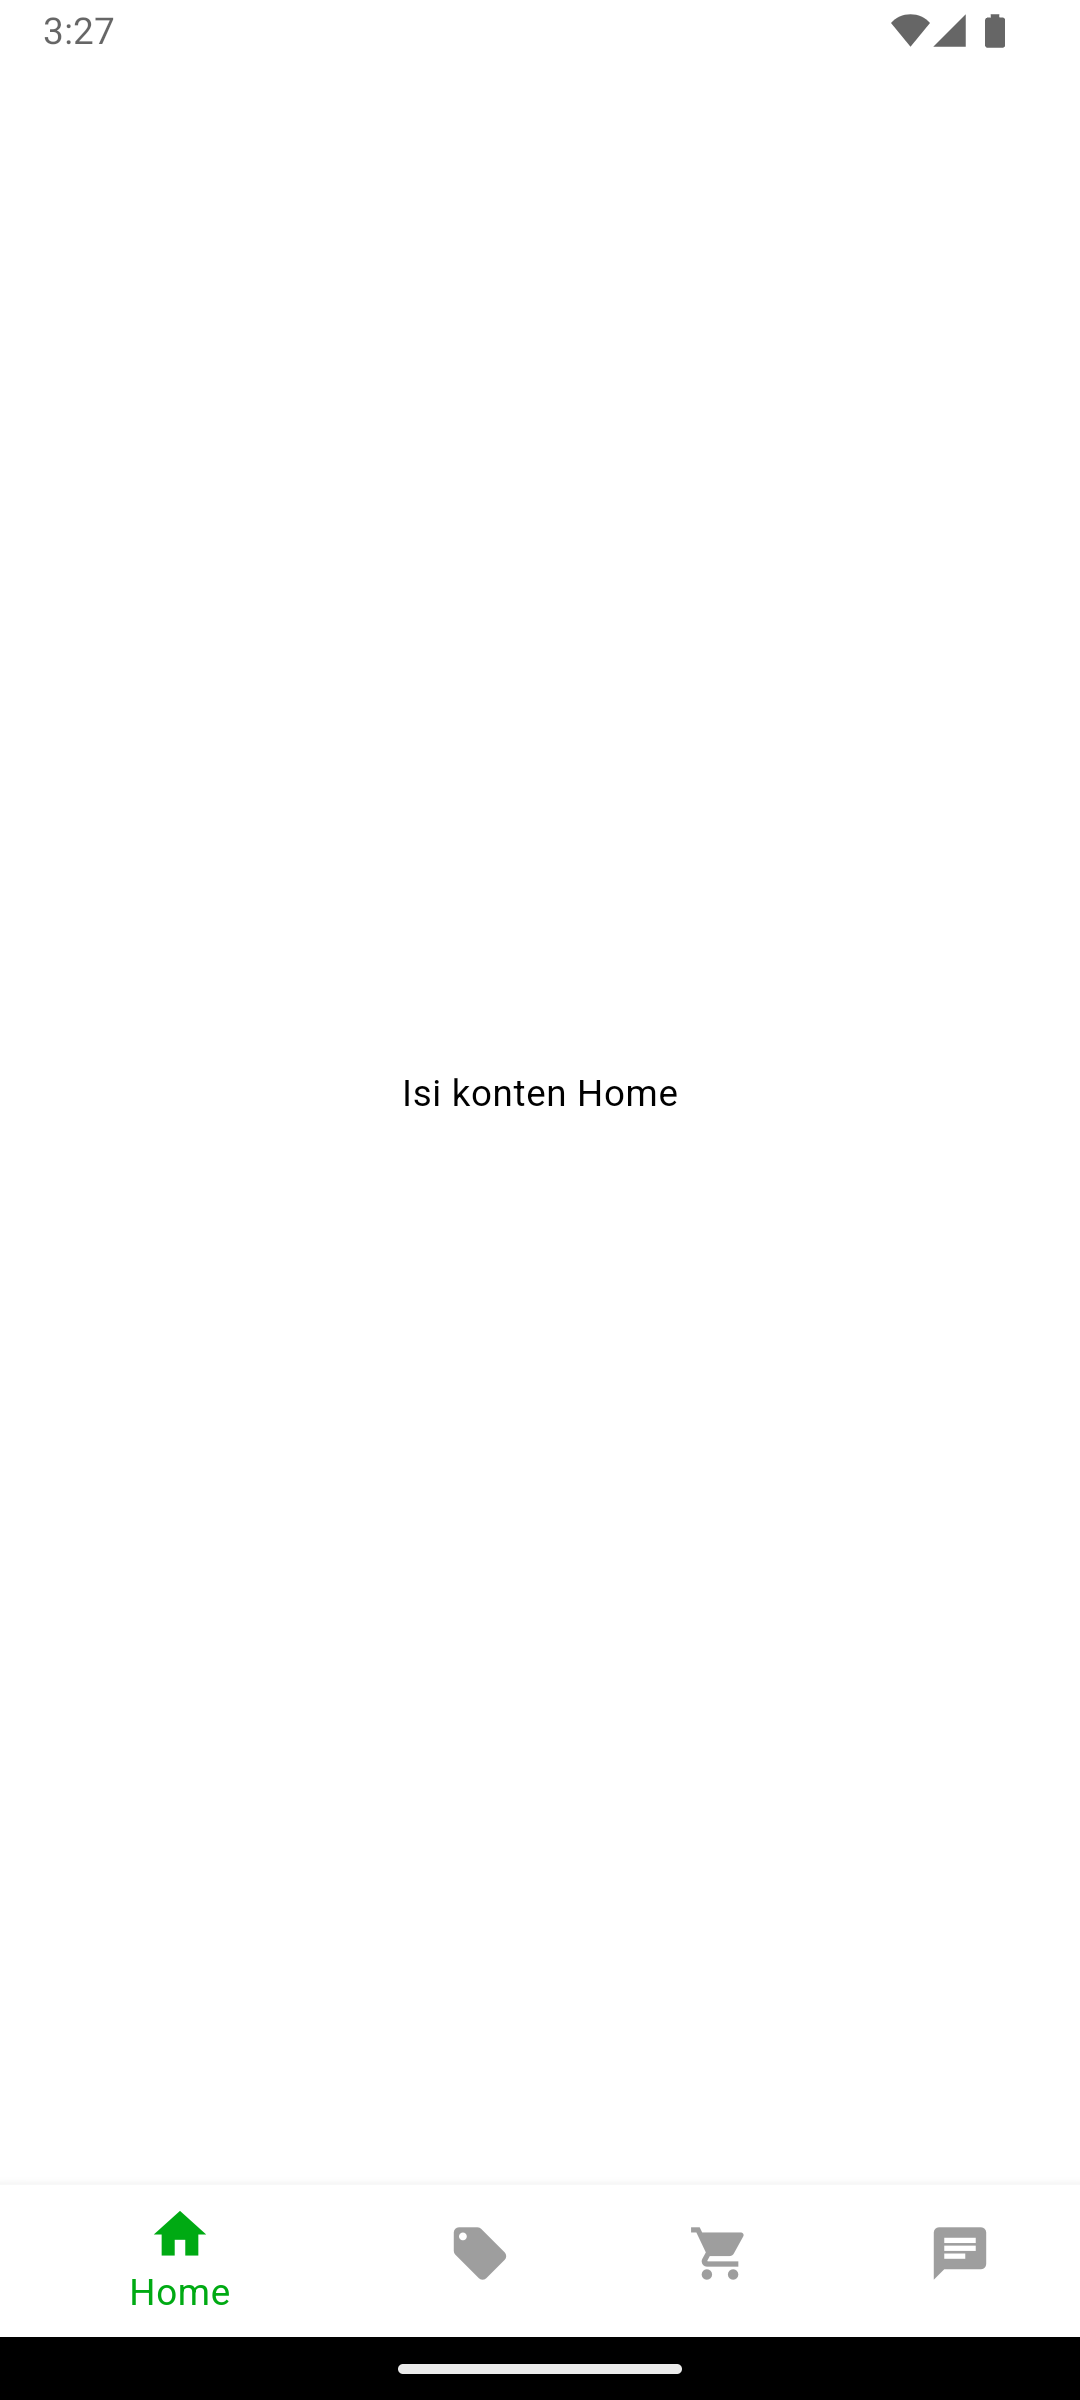
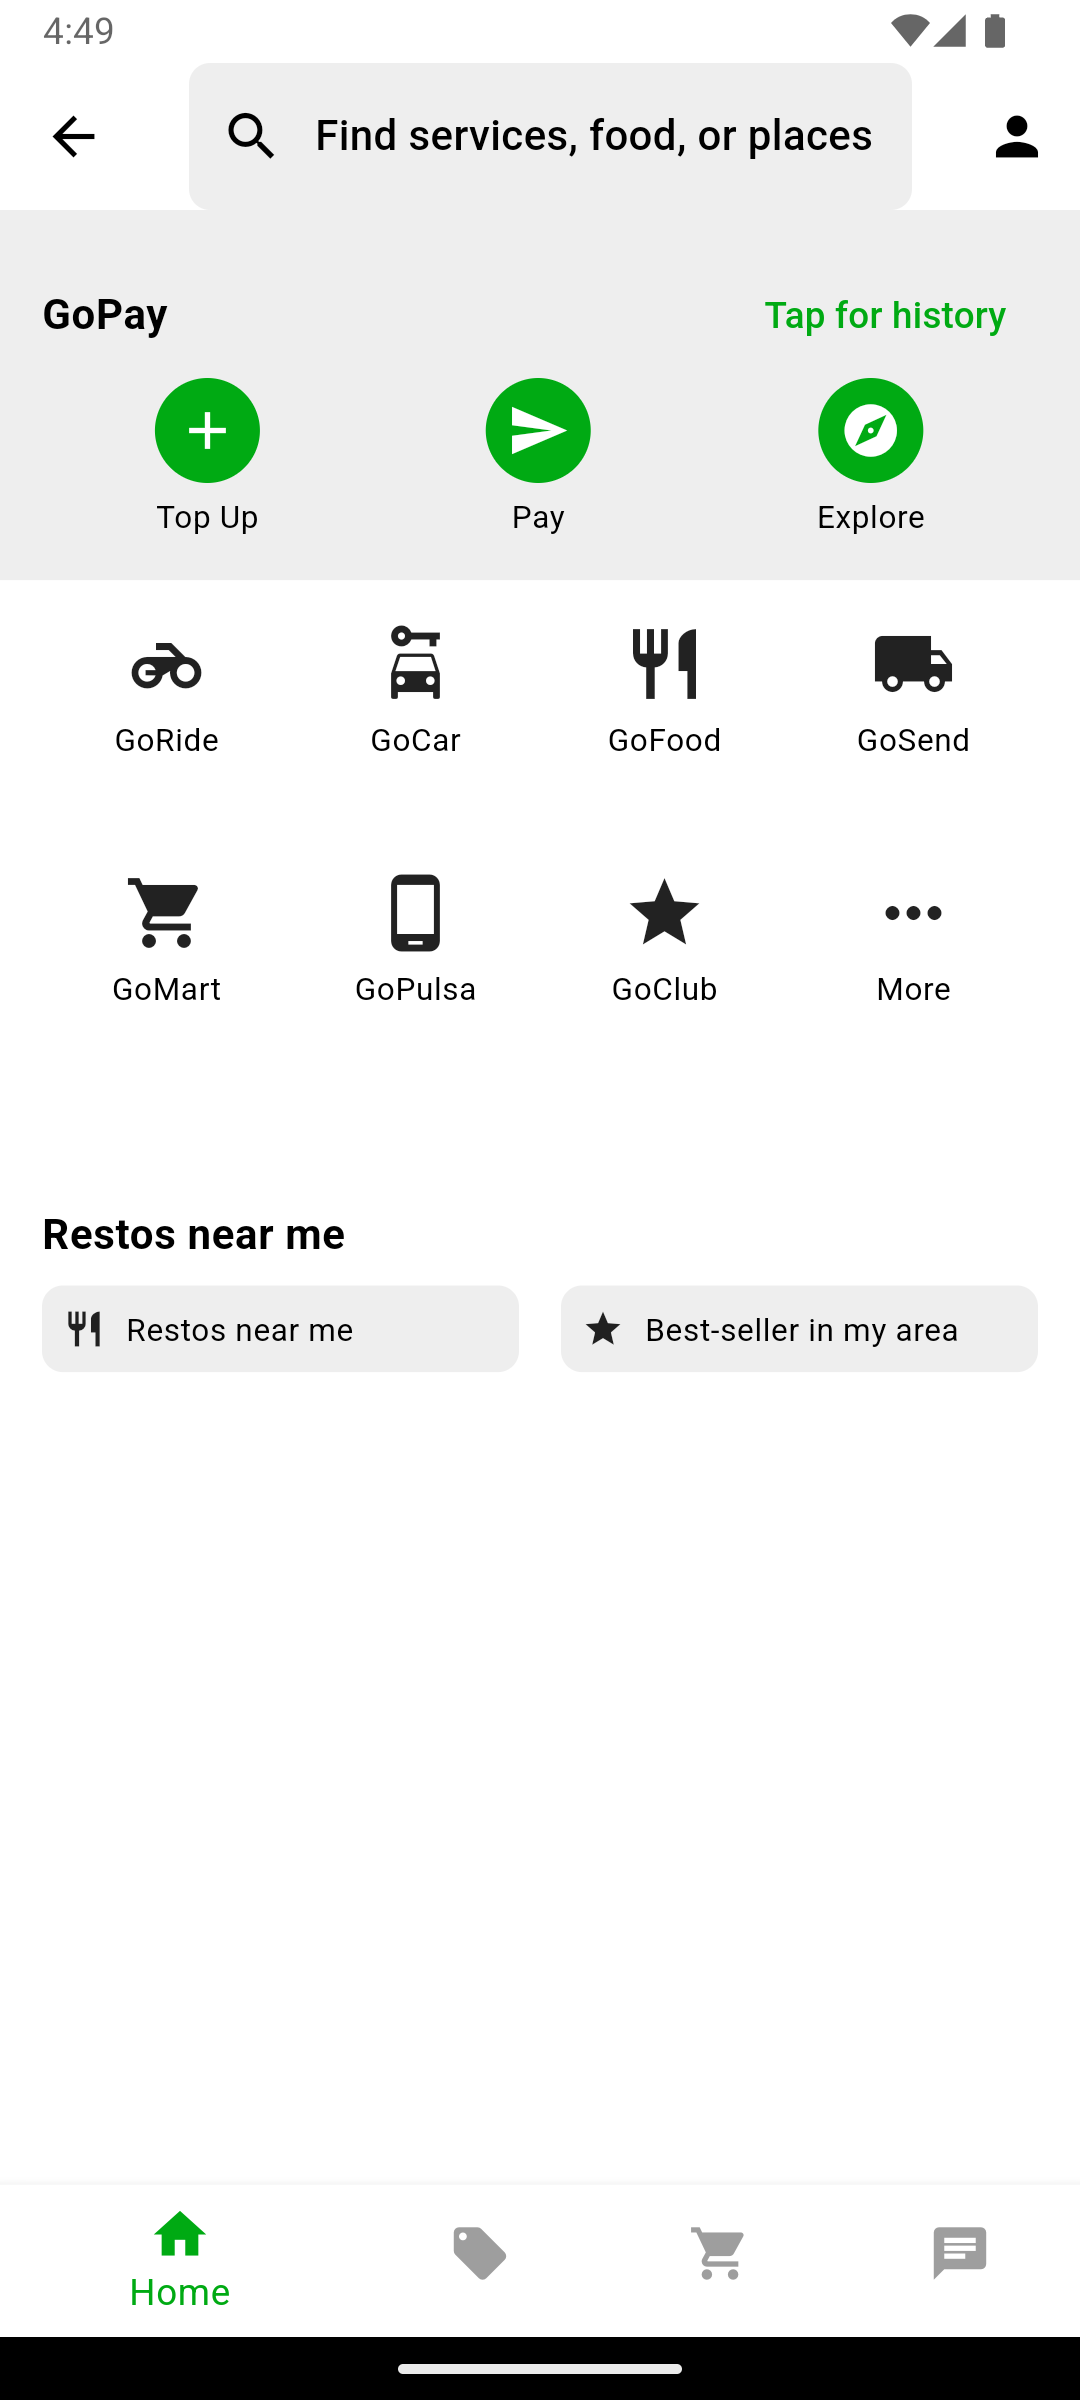
update page home_view dan promos_view

diff --git a/kode/lib/modules/main/viewpage/home_view.dart b/kode/lib/modules/main/viewpage/home_view.dart
@@ -4,7 +4,137 @@ class HomeView extends StatelessWidget {
   @override
   Widget build(BuildContext context) {
     return Scaffold(
-      body: Center(child: Text('Isi konten Home')),
+      appBar: AppBar(
+        title: TextField(
+          decoration: InputDecoration(
+            hintText: 'Find services, food, or places',
+            prefixIcon: Icon(Icons.search),
+            border: OutlineInputBorder(
+              borderRadius: BorderRadius.circular(8.0),
+              borderSide: BorderSide.none,
+            ),
+            filled: true,
+            fillColor: Colors.grey[200],
+          ),
+        ),
+        backgroundColor: Colors.white,
+        elevation: 0,
+        actions: [
+          IconButton(
+            icon: Icon(Icons.person, color: Colors.black),
+            onPressed: () {},
+          ),
+        ],
+      ),
+      body: SingleChildScrollView(
+        child: Column(
+          crossAxisAlignment: CrossAxisAlignment.start,
+          children: [
+            Container(
+              color: Colors.grey[200],
+              padding: const EdgeInsets.all(16.0),
+              child: Column(
+                crossAxisAlignment: CrossAxisAlignment.start,
+                children: [
+                  Row(
+                    children: [
+                      Text('GoPay', style: TextStyle(fontSize: 16, fontWeight: FontWeight.bold)),
+                      Spacer(),
+                      TextButton(
+                        onPressed: () {},
+                        child: Text('Tap for history', style: TextStyle(color: Color(0xFF00AA13))),
+                      ),
+                    ],
+                  ),
+                  Row(
+                    mainAxisAlignment: MainAxisAlignment.spaceAround,
+                    children: [
+                      _buildGoPayButton(Icons.add, 'Top Up'),
+                      _buildGoPayButton(Icons.send, 'Pay'),
+                      _buildGoPayButton(Icons.explore, 'Explore'),
+                    ],
+                  ),
+                ],
+              ),
+            ),
+            GridView.count(
+              crossAxisCount: 4,
+              shrinkWrap: true,
+              physics: NeverScrollableScrollPhysics(),
+              padding: EdgeInsets.all(16),
+              children: [
+                _buildServiceIcon(Icons.motorcycle, 'GoRide'),
+                _buildServiceIcon(Icons.car_rental, 'GoCar'),
+                _buildServiceIcon(Icons.restaurant, 'GoFood'),
+                _buildServiceIcon(Icons.local_shipping, 'GoSend'),
+                _buildServiceIcon(Icons.shopping_cart, 'GoMart'),
+                _buildServiceIcon(Icons.phone_android, 'GoPulsa'),
+                _buildServiceIcon(Icons.star, 'GoClub'),
+                _buildServiceIcon(Icons.more_horiz, 'More'),
+              ],
+            ),
+            Padding(
+              padding: const EdgeInsets.all(16.0),
+              child: Column(
+                crossAxisAlignment: CrossAxisAlignment.start,
+                children: [
+                  Text('Restos near me', style: TextStyle(fontSize: 16, fontWeight: FontWeight.bold)),
+                  SizedBox(height: 8),
+                  Row(
+                    children: [
+                      _buildQuickAction('Restos near me', Icons.restaurant),
+                      SizedBox(width: 16),
+                      _buildQuickAction('Best-seller in my area', Icons.star),
+                    ],
+                  ),
+                ],
+              ),
+            ),
+          ],
+        ),
+      ),
+    );
+  }
+
+  Widget _buildGoPayButton(IconData icon, String label) {
+    return Column(
+      children: [
+        CircleAvatar(
+          backgroundColor: Color(0xFF00AA13),
+          child: Icon(icon, color: Colors.white),
+        ),
+        SizedBox(height: 4),
+        Text(label, style: TextStyle(fontSize: 12)),
+      ],
+    );
+  }
+
+  Widget _buildServiceIcon(IconData icon, String label) {
+    return Column(
+      children: [
+        Icon(icon, size: 32),
+        SizedBox(height: 4),
+        Text(label, style: TextStyle(fontSize: 12)),
+      ],
+    );
+  }
+
+  Widget _buildQuickAction(String label, IconData icon) {
+    return Expanded(
+      child: Container(
+        padding: EdgeInsets.all(8),
+        decoration: BoxDecoration(
+          color: Colors.grey[200],
+          borderRadius: BorderRadius.circular(8),
+        ),
+        child: Row(
+          children: [
+            Icon(icon, size: 16),
+            SizedBox(width: 8),
+            Text(label, style: TextStyle(fontSize: 12)),
+          ],
+        ),
+      ),
     );
   }
 }

diff --git a/kode/lib/modules/main/viewpage/promos_view.dart b/kode/lib/modules/main/viewpage/promos_view.dart
@@ -4,7 +4,117 @@ class PromosView extends StatelessWidget {
   @override
   Widget build(BuildContext context) {
     return Scaffold(
-      body: Center(child: Text('Isi konten Promo')),
+      appBar: AppBar(
+        title: Text('Promo'),
+        backgroundColor: Colors.white,
+        elevation: 0,
+        titleTextStyle: TextStyle(color: Colors.black, fontSize: 20, fontWeight: FontWeight.bold),
+        iconTheme: IconThemeData(color: Colors.black),
+      ),
+      body: SingleChildScrollView(
+        child: Column(
+          crossAxisAlignment: CrossAxisAlignment.start,
+          children: [
+            Container(
+              color: Colors.grey[200],
+              padding: const EdgeInsets.all(16.0),
+              child: Row(
+                children: [
+                  Text('121 XP to your next treasure', style: TextStyle(fontSize: 16, fontWeight: FontWeight.bold)),
+                  Spacer(),
+                  Icon(Icons.arrow_forward_ios, size: 16, color: Colors.grey),
+                ],
+              ),
+            ),
+            Padding(
+              padding: const EdgeInsets.all(16.0),
+              child: Row(
+                mainAxisAlignment: MainAxisAlignment.spaceBetween,
+                children: [
+                  _buildPromoCard('13', 'Vouchers', '13 Akan hangus'),
+                  _buildPromoCard('0', 'Langganan', 'Lagi aktif'),
+                  _buildPromoCard('0', 'Mission', 'Lagi berjalan'),
+                ],
+              ),
+            ),
+            Padding(
+              padding: const EdgeInsets.all(16.0),
+              child: ElevatedButton(
+                onPressed: () {},
+                child: Text('Masukan kode promo'),
+              ),
+            ),
+            Padding(
+              padding: const EdgeInsets.all(16.0),
+              child: Column(
+                crossAxisAlignment: CrossAxisAlignment.start,
+                children: [
+                  Text('Promo menarik buat kamu', style: TextStyle(fontSize: 16, fontWeight: FontWeight.bold)),
+                  SizedBox(height: 8),
+                  SingleChildScrollView(
+                    scrollDirection: Axis.horizontal,
+                    child: Row(
+                      children: [
+                        _buildCategoryChip('Apa aja', true),
+                        _buildCategoryChip('GoFood', false),
+                        _buildCategoryChip('GoPay', false),
+                        _buildCategoryChip('GoPayLater', false),
+                        _buildCategoryChip('GoRide', false),
+                      ],
+                    ),
+                  ),
+                ],
+              ),
+            ),
+            Padding(
+              padding: const EdgeInsets.all(16.0),
+              child: Column(
+                crossAxisAlignment: CrossAxisAlignment.start,
+                children: [
+                  Text('Biar makin hemat', style: TextStyle(fontSize: 16, fontWeight: FontWeight.bold)),
+                  SizedBox(height: 8),
+                  Container(
+                    height: 120,
+                    child: ListView.builder(
+                      scrollDirection: Axis.horizontal,
+                      itemCount: 5,
+                      itemBuilder: (context, index) {
+                        return Container(
+                          margin: EdgeInsets.only(right: 8),
+                          width: 200,
+                          color: Colors.redAccent,
+                          child: Center(child: Text('Promo Image', style: TextStyle(color: Colors.white))),
+                        );
+                      },
+                    ),
+                  ),
+                ],
+              ),
+            ),
+          ],
+        ),
+      ),
+    );
+  }
+
+  Widget _buildPromoCard(String value, String title, String subtitle) {
+    return Column(
+      children: [
+        Text(value, style: TextStyle(fontSize: 24, fontWeight: FontWeight.bold)),
+        Text(title, style: TextStyle(fontSize: 16)),
+        Text(subtitle, style: TextStyle(fontSize: 12, color: Colors.grey)),
+      ],
+    );
+  }
+
+  Widget _buildCategoryChip(String label, bool isSelected) {
+    return Padding(
+      padding: const EdgeInsets.only(right: 8.0),
+      child: Chip(
+        label: Text(label),
+        backgroundColor: isSelected ? Color(0xFF00AA13) : Colors.grey[200],
+        labelStyle: TextStyle(color: isSelected ? Colors.white : Colors.black),
+      ),
     );
   }
 }
